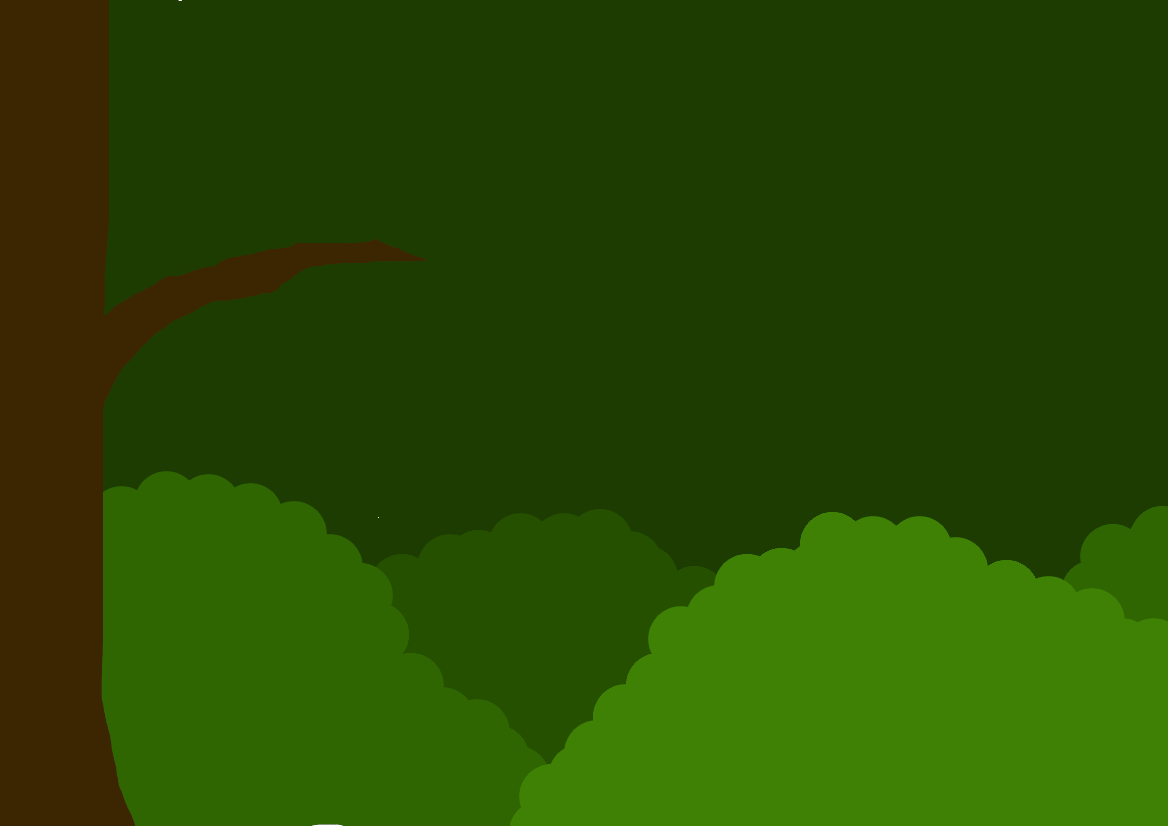
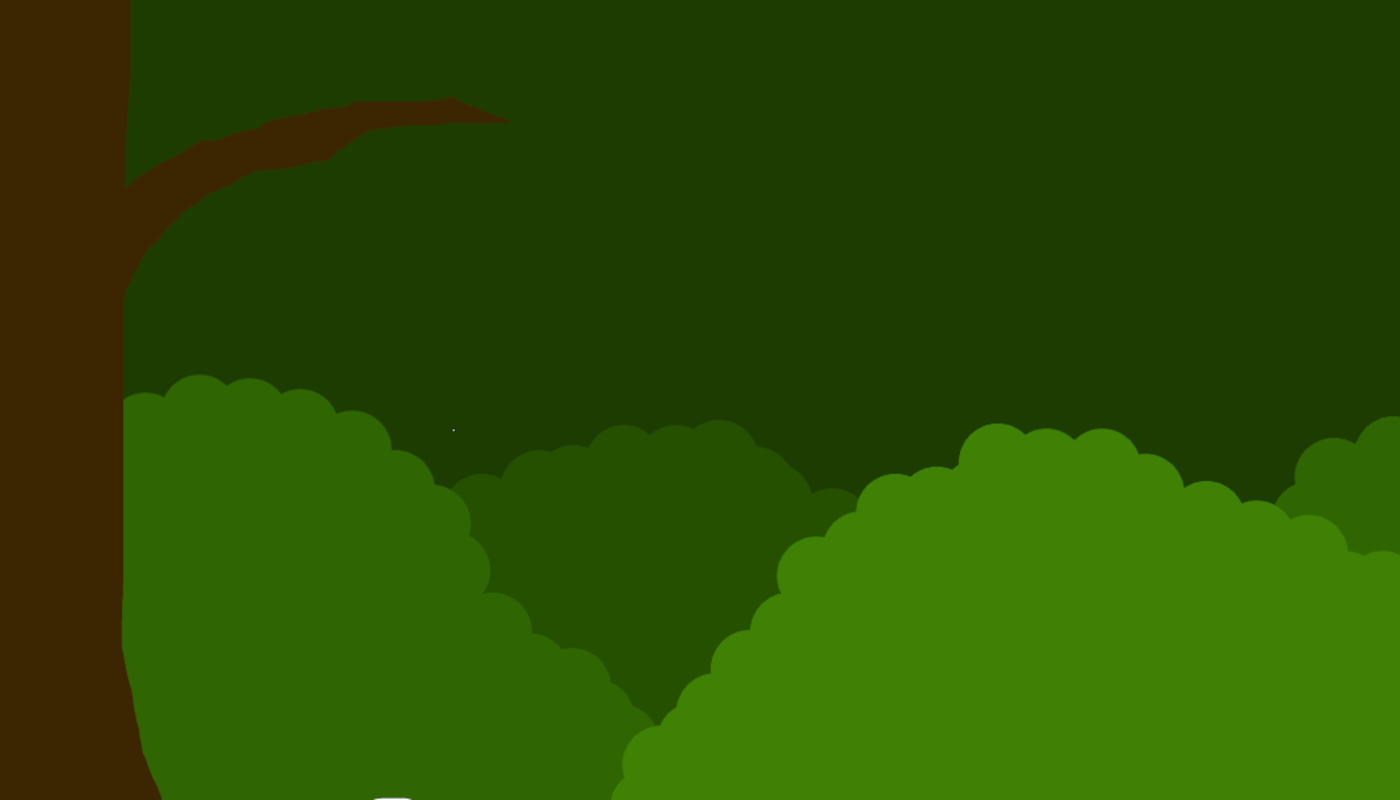
Neues Layout

diff --git a/PlanetCharc.css b/PlanetCharc.css
@@ -1,47 +1,90 @@
+#Spiel {
+    width: 1400px;
+    height: 800px;
+    position: absolute;
+}
 
-  #Spiel { display: grid; grid-template-columns: 700px 300px; }
-  #Erste-Spalte, #Zweite-Spalte { border: 1px solid black; display: inline-grid; }
+h1 {
+    position: inherit;
+    top: 0;
+    width: 100%;
+    text-align: center;
+    z-index: 100000;
+}
 
-  #Ort, #Ort-Bild { position: relative; width: 100%; overflow: hidden; }
-  #Konsole, #Besitz, #Aktionen { width: 100%; }
-  #Ort, #Ort-Bild { height: 600px; }
+#Ort {
+    position: inherit;
+    top: 0;
+    width: 1400px;
+    height: 800px;
+    overflow: hidden;
+}
 
+#Ort-Bild {
+    position: inherit;
+    top: 0;
+    max-width: 1400px;
+    max-height: 800px;
+    overflow: hidden;
+}
 
-  #Konsole { height: 200px; }
+.Gegenstand {
+    position: absolute;
+    border: 0px solid black;
+    visibility: hidden;
+}
+.Gegenstand > img {
+    max-width: 100%;
+    max-height: 100%;
+}
 
-  #Besitz { height: 70px; padding: 10px; background-color: none; }
+.Tier { position: absolute; }
 
+#Skyly_10 { height: 75px; width: 75px; font-size: 75px; }
+#Skyly_12 { height: 75px; width: 75px; font-size: 75px; }
 
-  .Tier { position: absolute; }
+#Konsole {
+    background-color: #00000050;
+    position: inherit;
+    top: 600px;
+    height: 200px;
+    display: grid;
+    grid-template-columns: 50% 50%;
+    width: 100%;
+}
 
-  .Gegenstand { position: absolute; border: 0px solid black; visibility: hidden; }
-  .Gegenstand > img { max-width: 100%; max-height: 100% }
-  .Gegenstand_in_Besitz { display: inline-block; height: 75px; }
-  .Gegenstand_in_Besitz img { max-width: 100%; max-height: 100% }
+#Aktionen {
+    width: 100%; 
+    box-sizing: border-box;
+    padding: 10px;
+}
 
-  #Gegenstand_in_Besitz_Vorlage { display: none; }
+.Aktion {
+    background-color: #00000050;
+    display: inline-block;
+    width: 85px;
+    height: 85px;
+    font-size: 67px;
+    text-align: center;
+    border: 1px outset;
+}
+.Aktion.aktiv {
+    border-style: inset;
+}
 
-  #Aktionen { padding: 10px; }
+#Besitz {
+    box-sizing: border-box;
+    width: 100%; 
+    padding: 10px;
+}
 
-  .Aktion {
-      display: inline-block;
-      width: 48px;
-      height: 48px;
-      font-size: 38px;
-      text-align: center;
-      border: 1px outset;
-  }
-  .Aktion.aktiv { border-style: inset; }
+.Gegenstand_in_Besitz {
+    display: inline-block;
+    height: 75px;
+}
+.Gegenstand_in_Besitz img {
+    max-width: 100%;
+    max-height: 100%
+}
 
-  #IQ {
-      padding: 10px;
-      font: bold 1.5em fantasy;
-  }
-
-  #Ideen {
-      padding: 10px;
-      font: bold 1.5em fantasy;
-  }
-
-  #Skyly_10 { height: 75px; width: 75px; font-size: 75px; }
-  #Skyly_12 { height: 75px; width: 75px; font-size: 75px; }
+#Gegenstand_in_Besitz_Vorlage { display: none; }

diff --git a/AdventureSpielVorlage/AdventureSpielVorlage.js b/AdventureSpielVorlage/AdventureSpielVorlage.js
@@ -132,7 +132,7 @@ function bereite_Spiel_vor() {
             Gegenstand_div.style.transform = "rotate(" + Gegenstand.wo.gedreht + "deg)";
         }
 
-        Gegenstand_img.setAttribute("src", "Gegenstaende/" + Gegenstand_Name + ".png");
+        Gegenstand_img.setAttribute("src", "Gegenstaende/" + Gegenstand_Name + ".png?nocache=" + Date.now());
 
         Ort_div.appendChild(Gegenstand_div);
 
@@ -145,7 +145,7 @@ function bereite_Spiel_vor() {
             var Gegenstand_in_Besitz_img = Gegenstand_in_Besitz_div.getElementsByTagName("img")[0];
 
             Gegenstand_in_Besitz_div.setAttribute("id", "Gegenstand_in_Besitz_" + Gegenstand_Name);
-            Gegenstand_in_Besitz_img.setAttribute("src", "Gegenstaende/" + Gegenstand_Name + ".png");
+            Gegenstand_in_Besitz_img.setAttribute("src", "Gegenstaende/" + Gegenstand_Name + ".png?nocache=" + Date.now());
             Besitz_div.appendChild(Gegenstand_in_Besitz_div);
         }
 
@@ -160,11 +160,7 @@ function zeige_Spiel_an() {
     document.getElementById("Status-Ort").innerText = Spiel.Spielstand.aktueller_Ort_Name;
     document.getElementById("Status-Aktion").innerText = Spiel.Spielstand.aktuelle_Aktion_Name;
 
-    document.getElementById("IQ").innerText = "IQ: " + Spiel.Spielstand.aktueller_IQ;
-
-    document.getElementById("Ideen").innerText = "Ideen: " + Spiel.Spielstand.aktuelle_Ideen;
-
-    document.getElementById("Ort-Bild").src = "Orte/" + Spiel.Spielstand.aktueller_Ort_Name + ".png";
+    document.getElementById("Ort-Bild").src = "Orte/" + Spiel.Spielstand.aktueller_Ort_Name + ".png?nocache=" + Date.now();
 
     var Skyly_10 = Spiel.Spielstand.Skyly_10,
         Skyly_10_div = document.getElementById("Skyly_10");

diff --git a/PlanetCharc.html b/PlanetCharc.html
@@ -3,32 +3,13 @@
 <head><title>Planet Charc - Das Computerspiel</title><meta charset="utf-8"/></head>
 <body>
 
-
-
-
-
-
-
-
-<!--  Hier definierst du, was der Browser beim Laden anzeigen soll.  -->
-
-<h1>Planet Charc - Das Computerspiel</h1>
-
 <div id="Spiel">
 
-<div id="Erste-Spalte">
-
-  <div id="Status">
-    Ort: <span id="Status-Ort">(lade...)</span>
-    -
-    Ausgewählte Aktion: <span id="Status-Aktion">(lade...)</span>
-  </div>
-
+  <h1>CHARC</h1>
 
   <div id="Ort">
 
     <img id="Ort-Bild" src="AdventureSpielVorlage/hourglass.gif"></img>
-
 
     <div id="Gegenstand_Vorlage" class="Gegenstand">
         <img> </img>
@@ -44,21 +25,7 @@
 
   </div>
 
-</div> <!-- Erste-Spalte -->
-
-
-<div id="Zweite-Spalte">
-
   <div id="Konsole">
-
-    <div id="Besitz">
-
-      <div id="Gegenstand_in_Besitz_Vorlage" class="Gegenstand_in_Besitz">
-        <img> </img>
-      </div>
-
-    </div>
-
 
     <div id="Aktionen">
  
@@ -69,7 +36,7 @@
       <div class="Aktion" id="Aktion-nehmen">
         &#9995;
       </div>
-     
+
       <div class="Aktion" id="Aktion-lernen"> 
         &#127891;
       </div>
@@ -79,16 +46,21 @@
       </div>
     </div>
 
-    <div id="IQ">
-      IQ: ?
-    </div>
- 
-    <div id="Ideen">
-      Ideen: ?
+    <div id="Besitz">
+
+      <div id="Gegenstand_in_Besitz_Vorlage" class="Gegenstand_in_Besitz">
+        <img> </img>
+      </div>
+
     </div>
 
   </div>
-</div> <!-- Zweite-Spalte -->
+
+  <div id="Status">
+    Ort: <span id="Status-Ort">(lade...)</span>
+    -
+    Ausgewählte Aktion: <span id="Status-Aktion">(lade...)</span>
+  </div>
 
 </div> <!-- Spiel -->
 

diff --git a/PlanetCharc.js b/PlanetCharc.js
@@ -83,9 +83,5 @@ window.Spielstand = {
 
     aktuelle_Aktion_Name: "",
 
-    Gegenstände_in_Besitz: [],
-
-    aktueller_IQ: 130,
-
-    aktuelle_Ideen: 0
+    Gegenstände_in_Besitz: []
 }
